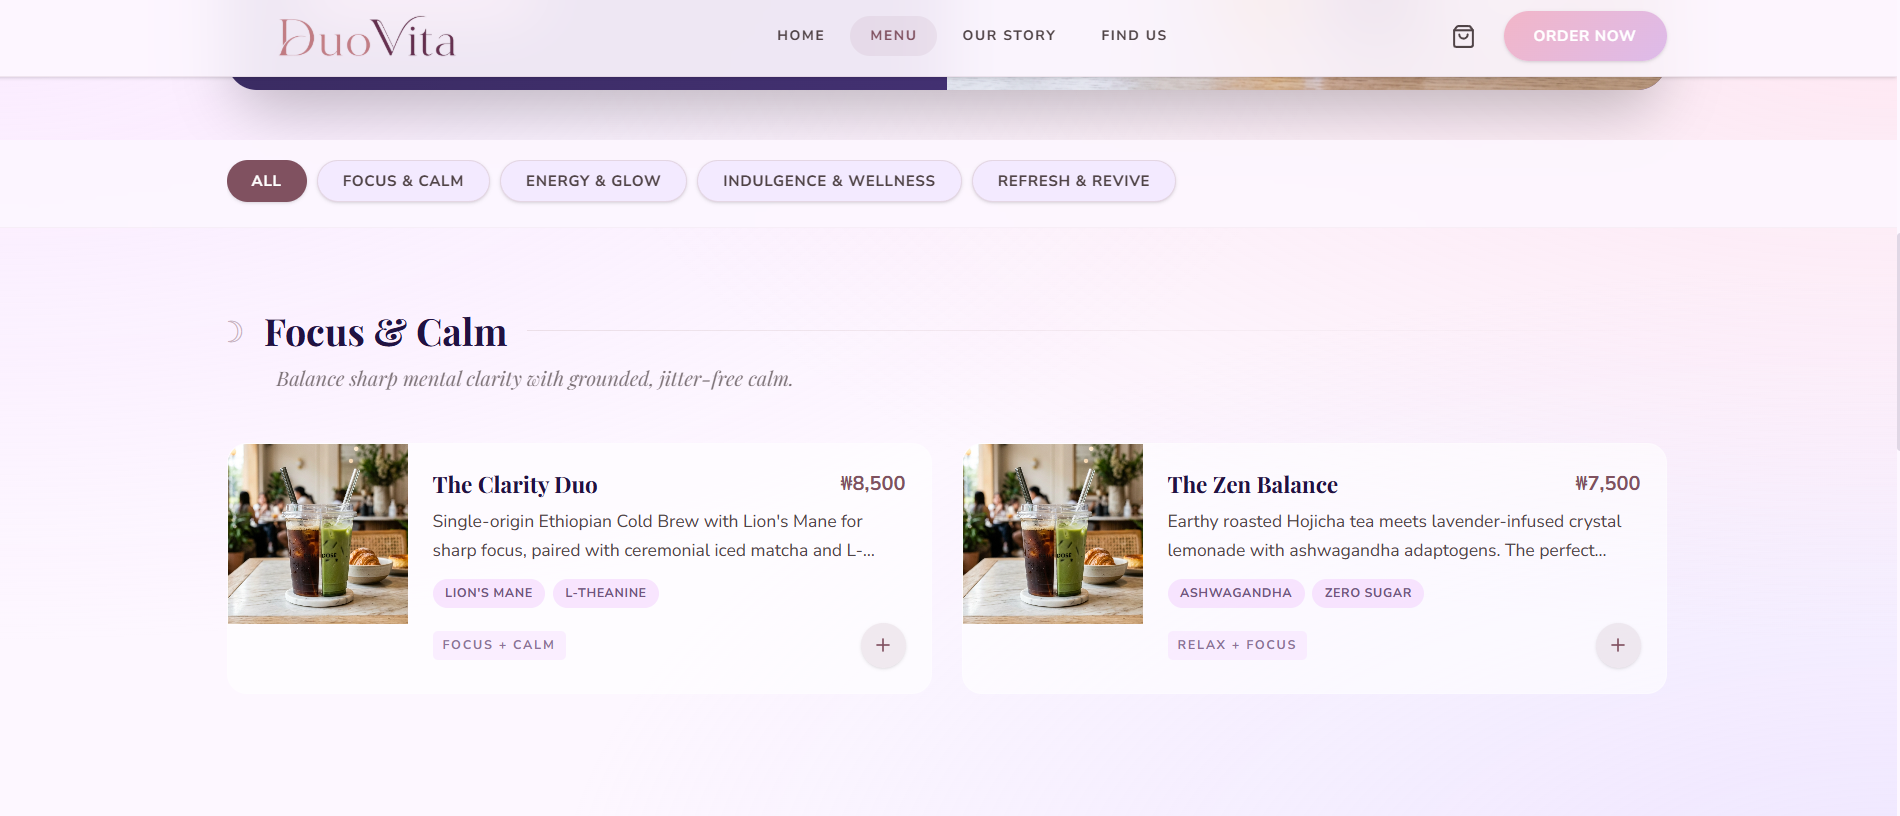
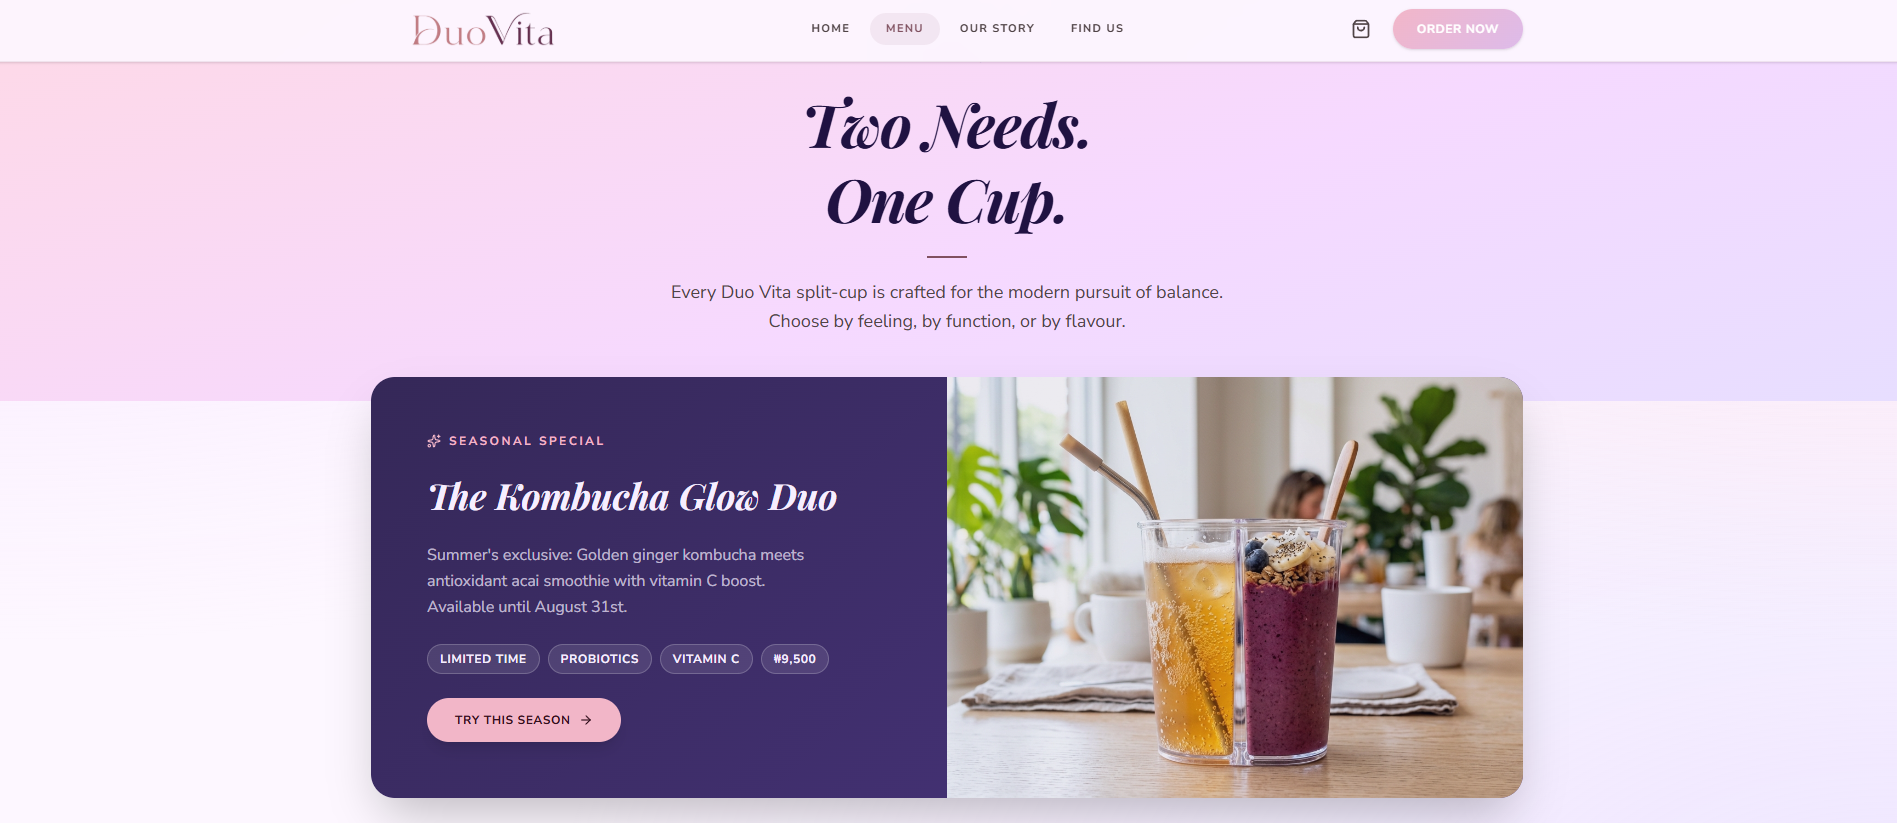
Fixed Remaining Issues

diff --git a/README.md b/README.md
@@ -26,24 +26,24 @@ The visual system is intentionally premium: soft glass panels, pastel gradients,
 <table>
   <tr>
     <td width="50%">
-      <img src="docs/screenshots/menu.png" alt="Duo Vita menu page with seasonal feature" width="100%">
+      <img src="docs/screenshots/menu.png" alt="Duo Vita Menu Page With Seasonal Feature" width="120%">
       <br>
       <sub><strong>Menu:</strong> seasonal feature, category filters, and product cards.</sub>
     </td>
     <td width="50%">
-      <img src="docs/screenshots/product.png" alt="Duo Vita product detail page" width="100%">
+      <img src="docs/screenshots/product.png" alt="Duo Vita Product Detail page" width="120%">
       <br>
       <sub><strong>Product:</strong> configurable drink detail page with cart-ready options.</sub>
     </td>
   </tr>
   <tr>
     <td width="50%">
-      <img src="docs/screenshots/mobile-home.png" alt="Duo Vita mobile home page" width="100%">
+      <img src="docs/screenshots/menu-options.png" alt="DuoVita Menu Options" width="90%">
       <br>
       <sub><strong>Responsive:</strong> mobile navigation and stacked home hero.</sub>
     </td>
     <td width="50%">
-      <img src="docs/screenshots/story.png" alt="Duo Vita story page" width="100%">
+      <img src="docs/screenshots/story.png" alt="Duo Vita Story Page" width="120%">
       <br>
       <sub><strong>Story:</strong> editorial brand narrative and positioning page.</sub>
     </td>
